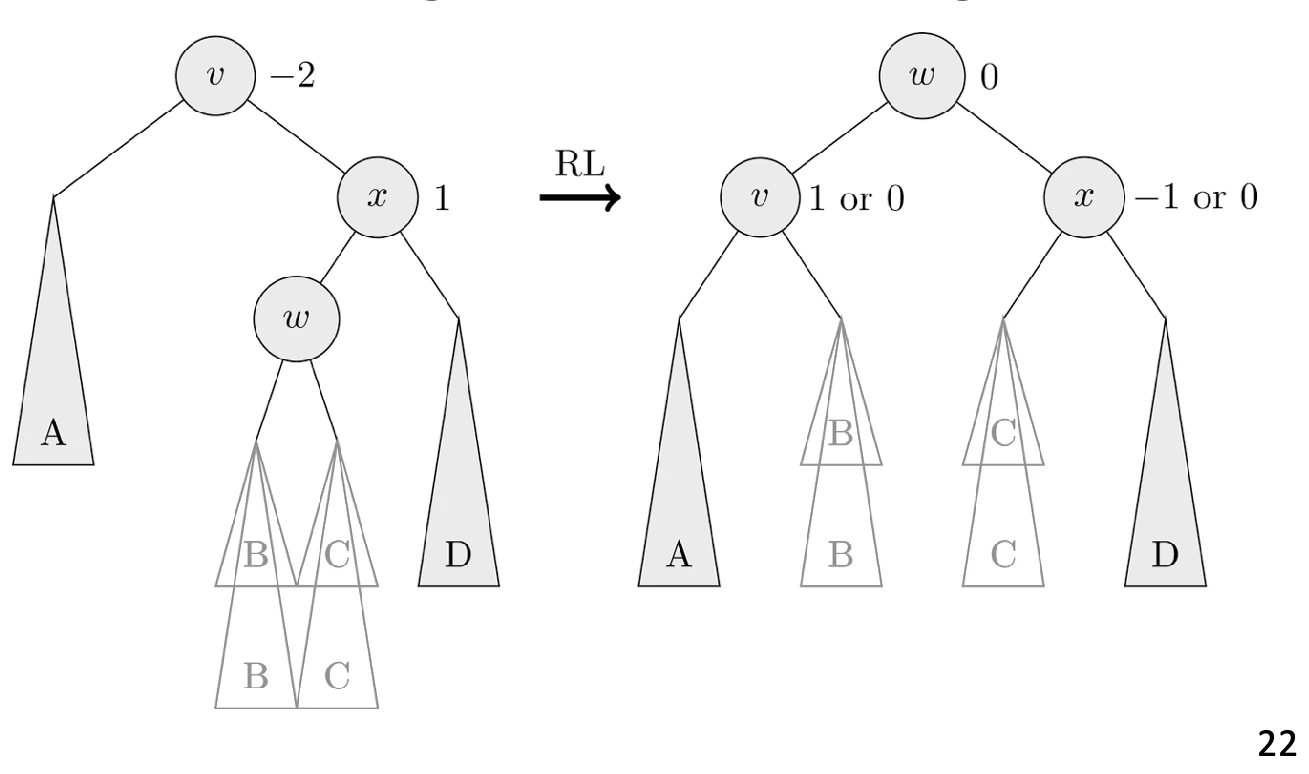
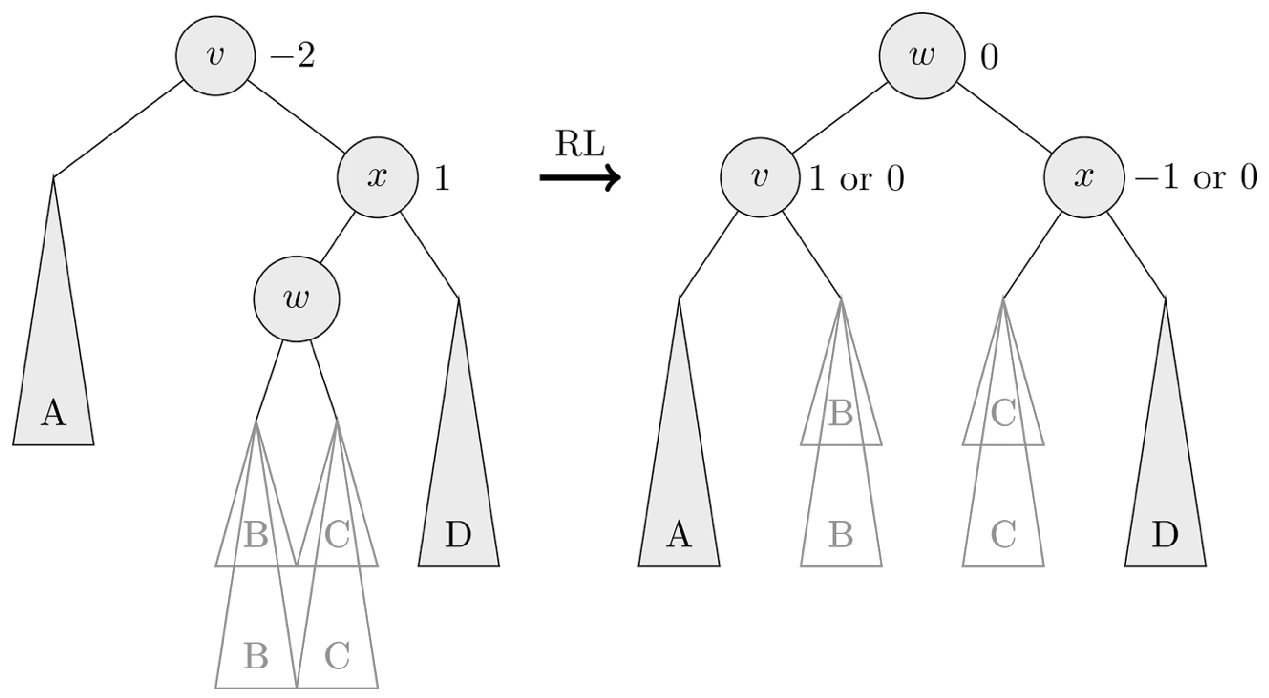
Crop a stray caption and page number off an AVL figure

diff --git a/_courses/dsaa/data-structures.md b/_courses/dsaa/data-structures.md
@@ -440,5 +440,5 @@ Induction step:  更大的树由根节点，左子树，右子树（可能为空
 - <span class="course-math" data-tex="bal(v)=0" data-display="false"><code>bal(v)=0</code></span>，那么只需要设 <span class="course-math" data-tex="bal(v)=-1" data-display="false"><code>bal(v)=-1</code></span> 即可。这里 <span class="course-math" data-tex="v" data-display="false"><code>v</code></span> 子树的高度没变，所以不需要再向上回溯。
 - <span class="course-math" data-tex="bal(v)=-1" data-display="false"><code>bal(v)=-1</code></span>。那么左子树会变得比右子树的树高少 <span class="course-math" data-tex="2" data-display="false"><code>2</code></span>！考虑右子树向下的搜索路径三个节点 <span class="course-math" data-tex="v,x,w" data-display="false"><code>v,x,w</code></span>。 有两种情况：
   - <span class="course-math" data-tex="bal(x)\in \{ -1,0 \}" data-display="false"><code>bal(x)\in \{ -1,0 \}</code></span>。那么在 <span class="course-math" data-tex="v" data-display="false"><code>v</code></span> 处向左旋转就好了。这里若 <span class="course-math" data-tex="bal(x)=-1" data-display="false"><code>bal(x)=-1</code></span>，那么最后 <span class="course-math" data-tex="bal(v)=-1,bal(x)=0" data-display="false"><code>bal(v)=-1,bal(x)=0</code></span>，就不用向上回溯了。若 <span class="course-math" data-tex="bal(x)=0" data-display="false"><code>bal(x)=0</code></span>，那么最后 <span class="course-math" data-tex="bal(v)=bal(x)=0" data-display="false"><code>bal(v)=bal(x)=0</code></span>，还需要向上回溯，因为树高变了。<img class="course-image" src="{% endraw %}{{ '/assets/courses/%E7%AC%94%E8%AE%B0%E4%BE%9D%E8%B5%96/%E5%9B%BE%E7%89%87/Data%20Structures-11.webp' | relative_url }}{% raw %}" alt="Data Structures-11" width="451" height="213" loading="lazy" decoding="async">
-  - <span class="course-math" data-tex="bal(x)=1" data-display="false"><code>bal(x)=1</code></span>。需要两次旋转，旋转完也还要向上回溯。<img class="course-image" src="{% endraw %}{{ '/assets/courses/%E7%AC%94%E8%AE%B0%E4%BE%9D%E8%B5%96/%E5%9B%BE%E7%89%87/Data%20Structures-12.webp' | relative_url }}{% raw %}" alt="Data Structures-12" width="498" height="294" loading="lazy" decoding="async">
+  - <span class="course-math" data-tex="bal(x)=1" data-display="false"><code>bal(x)=1</code></span>。需要两次旋转，旋转完也还要向上回溯。<img class="course-image" src="{% endraw %}{{ '/assets/courses/%E7%AC%94%E8%AE%B0%E4%BE%9D%E8%B5%96/%E5%9B%BE%E7%89%87/Data%20Structures-12.webp' | relative_url }}{% raw %}" alt="Data Structures-12" width="483" height="266" loading="lazy" decoding="async">
 {% endraw %}
